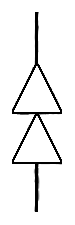
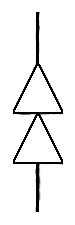
Fixed images

diff --git a/TEC_Game/test.xaml b/TEC_Game/test.xaml
@@ -1,0 +1,58 @@
+<Window x:Class="TEC_Game.test"
+        xmlns="http://schemas.microsoft.com/winfx/2006/xaml/presentation"
+        xmlns:x="http://schemas.microsoft.com/winfx/2006/xaml"
+        xmlns:d="http://schemas.microsoft.com/expression/blend/2008"
+        xmlns:mc="http://schemas.openxmlformats.org/markup-compatibility/2006"
+        xmlns:local="clr-namespace:TEC_Game"
+        mc:Ignorable="d"
+        Title="test" Height="800" Width="800">
+    <Grid>
+        <Grid.RowDefinitions>
+            <RowDefinition/>
+            <RowDefinition/>
+            <RowDefinition/>
+            <RowDefinition/>
+            <RowDefinition/>
+            <RowDefinition/>
+            <RowDefinition/>
+            <RowDefinition/>
+            <RowDefinition/>
+            <RowDefinition/>
+            <RowDefinition/>
+            <RowDefinition/>
+            <RowDefinition/>
+            <RowDefinition/>
+            <RowDefinition/>
+            <RowDefinition/>
+            <RowDefinition/>
+            <RowDefinition/>
+            <RowDefinition/>
+            <RowDefinition/>
+        </Grid.RowDefinitions>
+        <Grid.ColumnDefinitions>
+            <ColumnDefinition/>
+            <ColumnDefinition/>
+            <ColumnDefinition/>
+            <ColumnDefinition/>
+            <ColumnDefinition/>
+            <ColumnDefinition/>
+            <ColumnDefinition/>
+            <ColumnDefinition/>
+            <ColumnDefinition/>
+            <ColumnDefinition/>
+            <ColumnDefinition/>
+            <ColumnDefinition/>
+            <ColumnDefinition/>
+            <ColumnDefinition/>
+            <ColumnDefinition/>
+            <ColumnDefinition/>
+            <ColumnDefinition/>
+            <ColumnDefinition/>
+            <ColumnDefinition/>
+            <ColumnDefinition/>
+        </Grid.ColumnDefinitions>
+
+        <Image Source="Images/ConductorLand.png" Stretch="Fill" Grid.Row="5" Grid.Column="5" Grid.ColumnSpan="9" Grid.RowSpan="3"/>
+
+    </Grid>
+</Window>

diff --git a/TEC_Game/GameWindow.xaml b/TEC_Game/GameWindow.xaml
@@ -5,7 +5,7 @@
         xmlns:mc="http://schemas.openxmlformats.org/markup-compatibility/2006"
         xmlns:local="clr-namespace:TEC_Game"
         mc:Ignorable="d"
-        Title="GameWindow" Height="1121" Width="1328">
+        Title="GameWindow" Height="1021" Width="1228">
 
 
     <Window.Triggers>

diff --git a/TEC_Game/Conductor.cs b/TEC_Game/Conductor.cs
@@ -5,6 +5,7 @@ using System.Text;
 using System.Threading.Tasks;
 using System.Windows;
 using System.Windows.Controls;
+using System.Windows.Media;
 using System.Windows.Media.Imaging;
 
 namespace tec
@@ -16,7 +17,7 @@ namespace tec
             string dir = Environment.CurrentDirectory.Replace(@"bin\Debug", "");
             image = new Image();
             image.StretchDirection = StretchDirection.Both;
-            //image.RenderTransformOrigin = new Point(0, 0.5);
+            image.Stretch = Stretch.Fill;
             image.Source = new BitmapImage(new Uri(dir + @"Images\Conductor.png"));
             image.HorizontalAlignment = HorizontalAlignment.Stretch;
             image.VerticalAlignment = VerticalAlignment.Stretch;

diff --git a/TEC_Game/Resistor.cs b/TEC_Game/Resistor.cs
@@ -5,6 +5,7 @@ using System.Text;
 using System.Threading.Tasks;
 using System.Windows;
 using System.Windows.Controls;
+using System.Windows.Media;
 using System.Windows.Media.Imaging;
 
 namespace tec
@@ -16,7 +17,7 @@ namespace tec
             string dir = Environment.CurrentDirectory.Replace(@"bin\Debug", "");
             image = new Image();
             image.StretchDirection = StretchDirection.Both;
-            //image.RenderTransformOrigin = new Point(0, 0.5);
+            image.Stretch = Stretch.Fill;
             image.Source = new BitmapImage(new Uri(dir + @"Images\Resistor.png"));
             image.HorizontalAlignment = HorizontalAlignment.Stretch;
             image.VerticalAlignment = VerticalAlignment.Stretch;

diff --git a/TEC_Game/Nullator.cs b/TEC_Game/Nullator.cs
@@ -5,6 +5,7 @@ using System.Text;
 using System.Threading.Tasks;
 using System.Windows;
 using System.Windows.Controls;
+using System.Windows.Media;
 using System.Windows.Media.Imaging;
 
 namespace tec
@@ -16,6 +17,7 @@ namespace tec
             string dir = Environment.CurrentDirectory.Replace(@"bin\Debug", "");
             image = new Image();
             image.StretchDirection = StretchDirection.Both;
+            image.Stretch = Stretch.Fill;
             image.Source = new BitmapImage(new Uri(dir + @"Images\Nullator.png"));
             image.HorizontalAlignment = HorizontalAlignment.Stretch;
             image.VerticalAlignment = VerticalAlignment.Stretch;

diff --git a/TEC_Game/Norator.cs b/TEC_Game/Norator.cs
@@ -5,6 +5,7 @@ using System.Text;
 using System.Threading.Tasks;
 using System.Windows;
 using System.Windows.Controls;
+using System.Windows.Media;
 using System.Windows.Media.Imaging;
 
 namespace tec
@@ -16,6 +17,7 @@ namespace tec
             string dir = Environment.CurrentDirectory.Replace(@"bin\Debug", "");
             image = new Image();
             image.StretchDirection = StretchDirection.Both;
+            image.Stretch = Stretch.Fill;
             image.Source = new BitmapImage(new Uri(dir + @"Images\Norator.png"));
             image.HorizontalAlignment = HorizontalAlignment.Stretch;
             image.VerticalAlignment = VerticalAlignment.Stretch;

diff --git a/TEC_Game/test.xaml.cs b/TEC_Game/test.xaml.cs
@@ -1,0 +1,27 @@
+using System;
+using System.Collections.Generic;
+using System.Linq;
+using System.Text;
+using System.Threading.Tasks;
+using System.Windows;
+using System.Windows.Controls;
+using System.Windows.Data;
+using System.Windows.Documents;
+using System.Windows.Input;
+using System.Windows.Media;
+using System.Windows.Media.Imaging;
+using System.Windows.Shapes;
+
+namespace TEC_Game
+{
+    /// <summary>
+    /// Логика взаимодействия для test.xaml
+    /// </summary>
+    public partial class test : Window
+    {
+        public test()
+        {
+            InitializeComponent();
+        }
+    }
+}

diff --git a/TEC_Game/Wire.cs b/TEC_Game/Wire.cs
@@ -24,6 +24,7 @@ namespace TEC_Game
             string dir = Environment.CurrentDirectory.Replace(@"bin\Debug", "");
             image = new Image();
             image.StretchDirection = StretchDirection.Both;
+            image.Stretch = Stretch.Fill;
             image.Source = new BitmapImage(new Uri(dir + @"Images\Wire.png"));
         }
 
